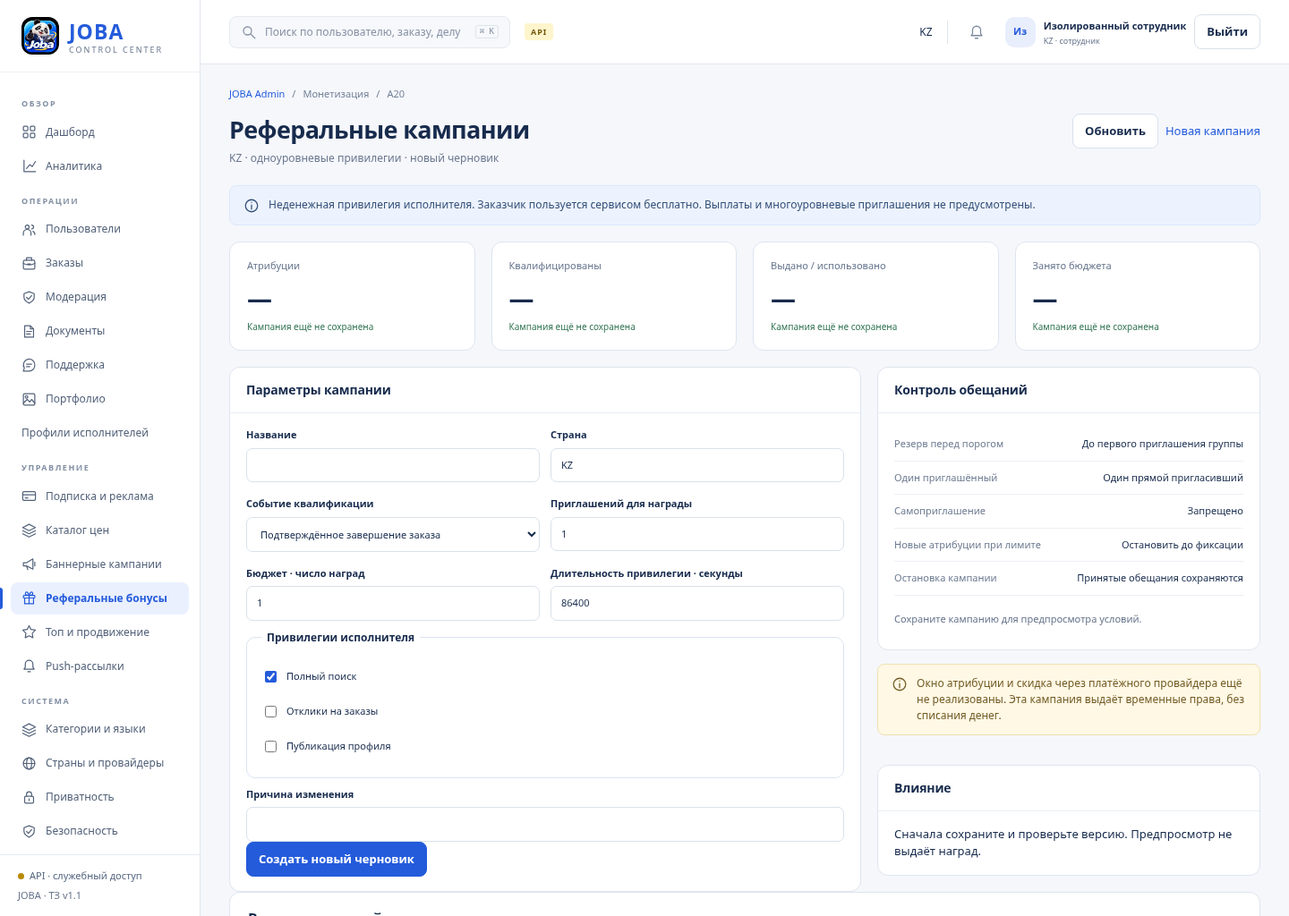
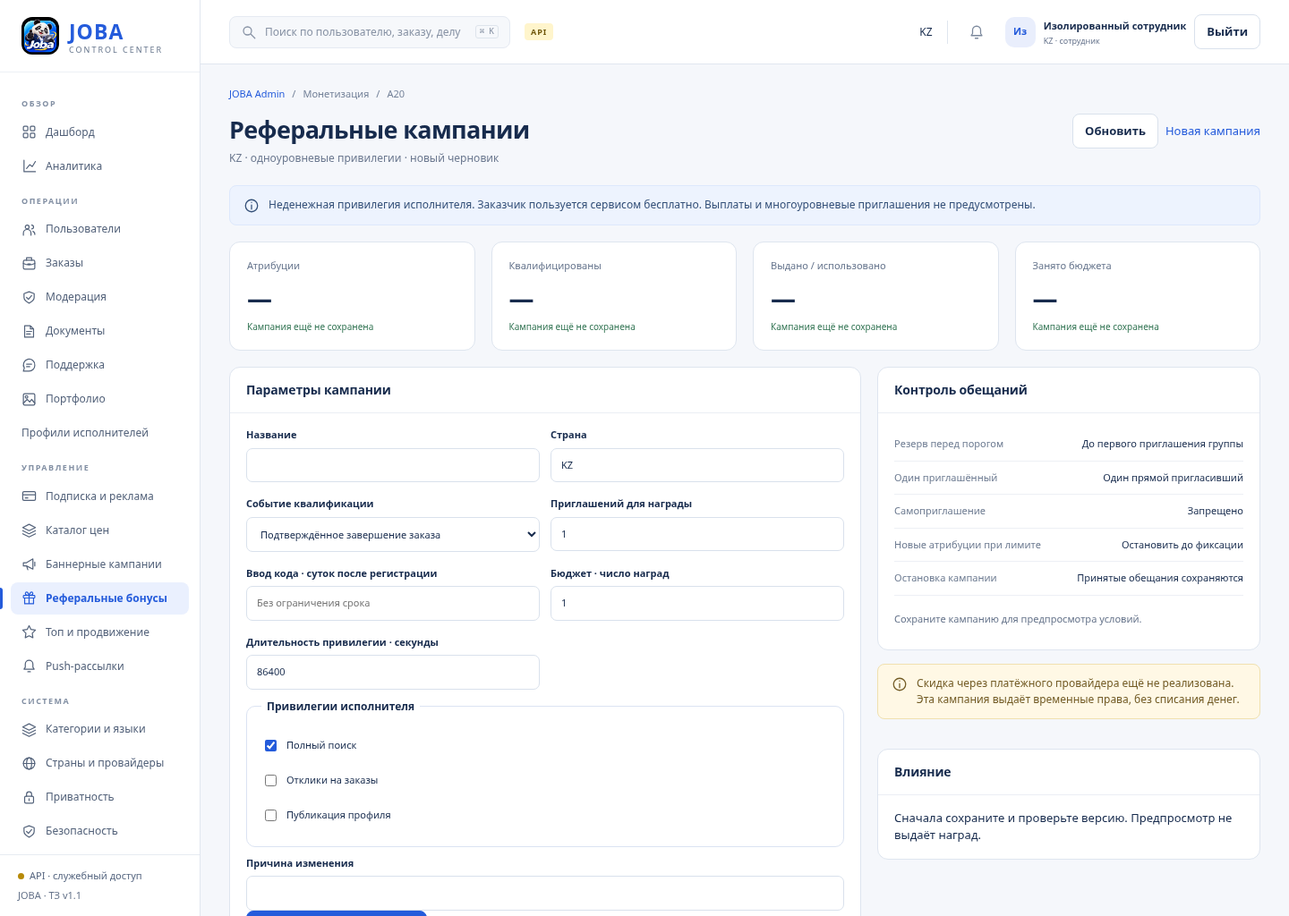
feat: enforce configurable referral attribution window

diff --git a/apps/admin/referral-workspace.js b/apps/admin/referral-workspace.js
@@ -5,11 +5,11 @@ export async function referralWorkspace({key,api,esc,card,note,tablecard,country
  const input=(label,name,value,type='text',attrs='')=>`<div class="formfield"><label for="referral-${name}">${label}</label><input id="referral-${name}" name="${name}" value="${esc(value??'')}" type="${type}" ${attrs}></div>`;
  const row=(label,value)=>`<div class="info-row"><span>${label}</span><b>${esc(value)}</b></div>`;
  const duration=seconds=>new Intl.NumberFormat('ru',{maximumFractionDigits:2}).format(seconds/3600)+' ч';
- if(key==='referral-preview')return {key,id:'A20.preview',title:'Предпросмотр реферальной кампании',subtitle:r?`${r.title} · версия ${r.version} · ${country}`:country+' · выберите сохранённую кампанию',section:'Реферальные кампании',actions:'<button id="refresh-data">Обновить</button>',body:()=>r?`<div class="referral-layout">${note('Предпросмотр сохранённых условий. Просмотр и проверка не принимают приглашения и не выдают награды.','warn')}<div class="grid split">${card('Условия для участника',`<div class="referral-offer"><span class="eyebrow">ПРИГЛАСИТЕ ДРУЗЕЙ В JOBA</span><h2>${esc(p.threshold)} приглашений</h2><p class="referral-benefit">${esc((p.capabilities||[]).map(x=>caps[x]||x).join(' · '))}</p><p class="tiny muted">Временная привилегия на ${esc(duration(p.reward_duration_seconds))}</p><p class="tiny muted referral-conditions">Приглашение засчитывается: ${esc(events[p.qualifying_event]||p.qualifying_event)}. Один прямой пригласивший, без денежных выплат. Доступные награды активируются в течение 30 дней.</p></div>${row('Что не раскрывается','Контакты и чужие покупки')}${row('Модель','Один уровень · без выплат')}${row('Прогресс участника','Здесь не отображается: участник не выбран')}`)}${card('Проверка перед публикацией',`${row('Страна / привилегия',country+' / исполнителю')}${row('Квалифицирующее событие',events[p.qualifying_event]||p.qualifying_event)}${row('Бюджет',p.budget_units+' наград')}${row('Занято / в резерве',m.budget_used+' / '+m.reserved)}${row('Срок награды',duration(p.reward_duration_seconds))}${row('Состояние',states[r.status]||r.status)}${row('Независимая публикация',r.published_by&&r.published_by!==r.owner?'Подтверждена':'Не подтверждена')}<form id="referral-preview-check" class="stack mt"><label for="referral-preview-reason">Основание проверки</label><textarea id="referral-preview-reason" name="reason" required minlength="10" maxlength="1000"></textarea><button class="primary">Проверить сохранённую версию</button><div role="alert"></div><div role="status"></div></form><a class="btn small" href="#referrals?id=${encodeURIComponent(r.id)}">Вернуться к условиям</a>`)}</div></div>`:`${note('Сохраните или выберите кампанию для просмотра её условий.')}<form id="referral-preview-select" class="filters"><label for="referral-preview-id">Кампания</label><select id="referral-preview-id" name="id" required><option value="">Выберите версию</option>${list.items.map(x=>`<option value="${esc(x.id)}">${esc(x.title)} · ${esc(states[x.status]||x.status)} · v${x.version}</option>`).join('')}</select><button ${list.items.length?'':'disabled'}>Показать условия</button></form><a class="btn" href="#referrals?new=1">Создать кампанию</a>${list.meta?.next_cursor?`<a class="btn" href="#referral-preview?cursor=${encodeURIComponent(list.meta.next_cursor)}">Следующая страница</a>`:''}`,bind(){const choose=document.getElementById('referral-preview-select');if(choose)choose.onsubmit=e=>{e.preventDefault();location.hash='referral-preview?id='+encodeURIComponent(new FormData(choose).get('id'));};const check=document.getElementById('referral-preview-check');if(check)check.onsubmit=async e=>{e.preventDefault();const button=check.querySelector('button');button.disabled=true;check.querySelector('[role=alert]').textContent='';check.querySelector('[role=status]').textContent='';try{const result=await api('/admin/referral-campaigns/'+r.id+'/preview','POST',{expected_version:r.version,reason:new FormData(check).get('reason')});check.querySelector('[role=status]').textContent=`Версия ${result.source_version} проверена. Активных аккаунтов в стране: ${result.country_active_accounts}. Награды не выданы.`;}catch(error){check.querySelector('[role=alert]').textContent=error.message;}finally{button.disabled=false;}};}};
- return {key,id:key==='referral-preview'?'A20.preview':'A20',title:'Реферальные кампании',subtitle:country+' · одноуровневые привилегии · '+(r?'Версия '+r.version:'новый черновик'),section:'Монетизация',actions:'<button id="refresh-data">Обновить</button><a class="btn primary" href="#referrals?new=1">Новая кампания</a>',body:()=>`${note('Неденежная привилегия исполнителя. Заказчик пользуется сервисом бесплатно. Выплаты и многоуровневые приглашения не предусмотрены.')}<div class="grid cols4 mt">${[['Атрибуции',m?.attributions],['Квалифицированы',m?.qualified],['Выдано / использовано',m?m.issued+' / '+m.redeemed:undefined],['Занято бюджета',m?m.budget_used+' / '+p.budget_units:undefined]].map(([label,value])=>`<section class="card metric"><div class="metric-label">${esc(label)}</div><div class="metric-num">${esc(value??'—')}</div><div class="metric-trend">${m?'По выбранной кампании':'Кампания ещё не сохранена'}</div></section>`).join('')}</div><div class="grid split mt referral-layout"><form id="referral-editor" class="stack">${card('Параметры кампании',`<div class="formgrid">${input('Название','title',r?.title,'text','required minlength="3" maxlength="120"')}${input('Страна','country',country,'text','readonly')}<div class="formfield"><label for="referral-event">Событие квалификации</label><select id="referral-event" name="qualifying_event">${Object.entries(events).map(([k,v])=>`<option value="${k}" ${p.qualifying_event===k?'selected':''}>${v}</option>`).join('')}</select></div>${input('Приглашений для награды','threshold',p.threshold??1,'number','required min="1" max="100"')}${input('Бюджет · число наград','budget_units',p.budget_units??1,'number','required min="1" max="1000000"')}${input('Длительность привилегии · секунды','reward_duration_seconds',p.reward_duration_seconds??86400,'number','required min="60" max="31622400"')}</div><fieldset><legend>Привилегии исполнителя</legend>${Object.entries(caps).map(([k,v])=>`<label class="check"><input name="capabilities" type="checkbox" value="${k}" ${(p.capabilities||['search_full']).includes(k)?'checked':''}> ${v}</label>`).join('')}</fieldset>${input('Причина изменения','reason','','text','required minlength="10" maxlength="1000"')}<div class="actions"><button class="primary">${own?'Сохранить черновик':'Создать новый черновик'}</button></div><div role="alert"></div>`)}</form><div class="stack">${card('Контроль обещаний',`${row('Резерв перед порогом','До первого приглашения группы')}${row('Один приглашённый','Один прямой пригласивший')}${row('Самоприглашение','Запрещено')}${row('Новые атрибуции при лимите','Остановить до фиксации')}${row('Остановка кампании','Принятые обещания сохраняются')}${r?`<a class="price-primary mt" href="#referral-preview?id=${encodeURIComponent(r.id)}">Предпросмотр условий →</a>`:'<p class="tiny muted mt">Сохраните кампанию для предпросмотра условий.</p>'}`)}${note('Окно атрибуции и скидка через платёжного провайдера ещё не реализованы. Эта кампания выдаёт временные права, без списания денег.','warn')}${r?card('Проверка и публикация',`<form id="referral-command" class="stack"><label for="referral-command-reason">Основание действия</label><textarea id="referral-command-reason" name="reason" required minlength="10" maxlength="1000"></textarea><div class="actions"><button value="validate">Проверить</button><button value="preview">Предпросмотр</button>${r.status==='draft'?'<button class="primary" value="publish">Опубликовать другим сотрудником</button>':r.status==='effective'?'<button value="stop">Остановить кампанию</button>':''}<button value="rollback">Черновик отката</button></div><div role="alert"></div><div role="status"></div></form>`):''}${card('Влияние','<div id="referral-impact">Сначала сохраните и проверьте версию. Предпросмотр не выдаёт наград.</div>')}</div></div>${tablecard('Версии кампаний',['Название','Состояние','Порог / бюджет',''],list.items.map(x=>[esc(x.title),esc(states[x.status]||x.status),esc(x.payload.threshold+' / '+x.payload.budget_units),`<a href="#referrals?id=${encodeURIComponent(x.id)}">Открыть →</a>`]),'',`${list.items.length} записей · ${list.meta?.next_cursor?'Есть следующая страница':'Конец списка'}`)}${list.meta?.next_cursor?`<a class="btn" href="#referrals?cursor=${encodeURIComponent(list.meta.next_cursor)}">Следующая страница</a>`:''}`,
+ if(key==='referral-preview')return {key,id:'A20.preview',title:'Предпросмотр реферальной кампании',subtitle:r?`${r.title} · версия ${r.version} · ${country}`:country+' · выберите сохранённую кампанию',section:'Реферальные кампании',actions:'<button id="refresh-data">Обновить</button>',body:()=>r?`<div class="referral-layout">${note('Предпросмотр сохранённых условий. Просмотр и проверка не принимают приглашения и не выдают награды.','warn')}<div class="grid split">${card('Условия для участника',`<div class="referral-offer"><span class="eyebrow">ПРИГЛАСИТЕ ДРУЗЕЙ В JOBA</span><h2>${esc(p.threshold)} приглашений</h2><p class="referral-benefit">${esc((p.capabilities||[]).map(x=>caps[x]||x).join(' · '))}</p><p class="tiny muted">Временная привилегия на ${esc(duration(p.reward_duration_seconds))}</p><p class="tiny muted referral-conditions">Приглашение засчитывается: ${esc(events[p.qualifying_event]||p.qualifying_event)}. Один прямой пригласивший, без денежных выплат. Доступные награды активируются в течение 30 дней.</p></div>${row('Что не раскрывается','Контакты и чужие покупки')}${row('Модель','Один уровень · без выплат')}${row('Прогресс участника','Здесь не отображается: участник не выбран')}`)}${card('Проверка перед публикацией',`${row('Страна / привилегия',country+' / исполнителю')}${row('Квалифицирующее событие',events[p.qualifying_event]||p.qualifying_event)}${row('Ввод кода после регистрации',p.attribution_window_days?p.attribution_window_days+' суток':'Без ограничения срока')}${row('Бюджет',p.budget_units+' наград')}${row('Занято / в резерве',m.budget_used+' / '+m.reserved)}${row('Срок награды',duration(p.reward_duration_seconds))}${row('Состояние',states[r.status]||r.status)}${row('Независимая публикация',r.published_by&&r.published_by!==r.owner?'Подтверждена':'Не подтверждена')}<form id="referral-preview-check" class="stack mt"><label for="referral-preview-reason">Основание проверки</label><textarea id="referral-preview-reason" name="reason" required minlength="10" maxlength="1000"></textarea><button class="primary">Проверить сохранённую версию</button><div role="alert"></div><div role="status"></div></form><a class="btn small" href="#referrals?id=${encodeURIComponent(r.id)}">Вернуться к условиям</a>`)}</div></div>`:`${note('Сохраните или выберите кампанию для просмотра её условий.')}<form id="referral-preview-select" class="filters"><label for="referral-preview-id">Кампания</label><select id="referral-preview-id" name="id" required><option value="">Выберите версию</option>${list.items.map(x=>`<option value="${esc(x.id)}">${esc(x.title)} · ${esc(states[x.status]||x.status)} · v${x.version}</option>`).join('')}</select><button ${list.items.length?'':'disabled'}>Показать условия</button></form><a class="btn" href="#referrals?new=1">Создать кампанию</a>${list.meta?.next_cursor?`<a class="btn" href="#referral-preview?cursor=${encodeURIComponent(list.meta.next_cursor)}">Следующая страница</a>`:''}`,bind(){const choose=document.getElementById('referral-preview-select');if(choose)choose.onsubmit=e=>{e.preventDefault();location.hash='referral-preview?id='+encodeURIComponent(new FormData(choose).get('id'));};const check=document.getElementById('referral-preview-check');if(check)check.onsubmit=async e=>{e.preventDefault();const button=check.querySelector('button');button.disabled=true;check.querySelector('[role=alert]').textContent='';check.querySelector('[role=status]').textContent='';try{const result=await api('/admin/referral-campaigns/'+r.id+'/preview','POST',{expected_version:r.version,reason:new FormData(check).get('reason')});check.querySelector('[role=status]').textContent=`Версия ${result.source_version} проверена. Активных аккаунтов в стране: ${result.country_active_accounts}. Награды не выданы.`;}catch(error){check.querySelector('[role=alert]').textContent=error.message;}finally{button.disabled=false;}};}};
+ return {key,id:key==='referral-preview'?'A20.preview':'A20',title:'Реферальные кампании',subtitle:country+' · одноуровневые привилегии · '+(r?'Версия '+r.version:'новый черновик'),section:'Монетизация',actions:'<button id="refresh-data">Обновить</button><a class="btn primary" href="#referrals?new=1">Новая кампания</a>',body:()=>`${note('Неденежная привилегия исполнителя. Заказчик пользуется сервисом бесплатно. Выплаты и многоуровневые приглашения не предусмотрены.')}<div class="grid cols4 mt">${[['Атрибуции',m?.attributions],['Квалифицированы',m?.qualified],['Выдано / использовано',m?m.issued+' / '+m.redeemed:undefined],['Занято бюджета',m?m.budget_used+' / '+p.budget_units:undefined]].map(([label,value])=>`<section class="card metric"><div class="metric-label">${esc(label)}</div><div class="metric-num">${esc(value??'—')}</div><div class="metric-trend">${m?'По выбранной кампании':'Кампания ещё не сохранена'}</div></section>`).join('')}</div><div class="grid split mt referral-layout"><form id="referral-editor" class="stack">${card('Параметры кампании',`<div class="formgrid">${input('Название','title',r?.title,'text','required minlength="3" maxlength="120"')}${input('Страна','country',country,'text','readonly')}<div class="formfield"><label for="referral-event">Событие квалификации</label><select id="referral-event" name="qualifying_event">${Object.entries(events).map(([k,v])=>`<option value="${k}" ${p.qualifying_event===k?'selected':''}>${v}</option>`).join('')}</select></div>${input('Приглашений для награды','threshold',p.threshold??1,'number','required min="1" max="100"')}${input('Ввод кода · суток после регистрации','attribution_window_days',p.attribution_window_days??'','number','min="1" max="365" placeholder="Без ограничения срока"')}${input('Бюджет · число наград','budget_units',p.budget_units??1,'number','required min="1" max="1000000"')}${input('Длительность привилегии · секунды','reward_duration_seconds',p.reward_duration_seconds??86400,'number','required min="60" max="31622400"')}</div><fieldset><legend>Привилегии исполнителя</legend>${Object.entries(caps).map(([k,v])=>`<label class="check"><input name="capabilities" type="checkbox" value="${k}" ${(p.capabilities||['search_full']).includes(k)?'checked':''}> ${v}</label>`).join('')}</fieldset>${input('Причина изменения','reason','','text','required minlength="10" maxlength="1000"')}<div class="actions"><button class="primary">${own?'Сохранить черновик':'Создать новый черновик'}</button></div><div role="alert"></div>`)}</form><div class="stack">${card('Контроль обещаний',`${row('Резерв перед порогом','До первого приглашения группы')}${row('Один приглашённый','Один прямой пригласивший')}${row('Самоприглашение','Запрещено')}${row('Новые атрибуции при лимите','Остановить до фиксации')}${row('Остановка кампании','Принятые обещания сохраняются')}${r?`<a class="price-primary mt" href="#referral-preview?id=${encodeURIComponent(r.id)}">Предпросмотр условий →</a>`:'<p class="tiny muted mt">Сохраните кампанию для предпросмотра условий.</p>'}`)}${note('Скидка через платёжного провайдера ещё не реализована. Эта кампания выдаёт временные права, без списания денег.','warn')}${r?card('Проверка и публикация',`<form id="referral-command" class="stack"><label for="referral-command-reason">Основание действия</label><textarea id="referral-command-reason" name="reason" required minlength="10" maxlength="1000"></textarea><div class="actions"><button value="validate">Проверить</button><button value="preview">Предпросмотр</button>${r.status==='draft'?'<button class="primary" value="publish">Опубликовать другим сотрудником</button>':r.status==='effective'?'<button value="stop">Остановить кампанию</button>':''}<button value="rollback">Черновик отката</button></div><div role="alert"></div><div role="status"></div></form>`):''}${card('Влияние','<div id="referral-impact">Сначала сохраните и проверьте версию. Предпросмотр не выдаёт наград.</div>')}</div></div>${tablecard('Версии кампаний',['Название','Состояние','Порог / бюджет',''],list.items.map(x=>[esc(x.title),esc(states[x.status]||x.status),esc(x.payload.threshold+' / '+x.payload.budget_units),`<a href="#referrals?id=${encodeURIComponent(x.id)}">Открыть →</a>`]),'',`${list.items.length} записей · ${list.meta?.next_cursor?'Есть следующая страница':'Конец списка'}`)}${list.meta?.next_cursor?`<a class="btn" href="#referrals?cursor=${encodeURIComponent(list.meta.next_cursor)}">Следующая страница</a>`:''}`,
  bind(){const form=document.getElementById('referral-editor'),commands=document.getElementById('referral-command');let dirty=false,busy=false;
  form.oninput=()=>{dirty=true;if(commands){commands.querySelectorAll('button').forEach(b=>b.disabled=true);commands.querySelector('[role=status]').textContent='Сохраните изменения перед проверкой.';}};
- form.onsubmit=async e=>{e.preventDefault();if(busy)return;const data=new FormData(form),values=Object.fromEntries(data),capabilities=data.getAll('capabilities');if(!capabilities.length){form.querySelector('[role=alert]').textContent='Выберите хотя бы одну привилегию.';return;}const payload={threshold:Number(values.threshold),budget_units:Number(values.budget_units),reward_duration_seconds:Number(values.reward_duration_seconds),qualifying_event:values.qualifying_event,capabilities};const controls=[...form.querySelectorAll('input,select,button')];busy=true;controls.forEach(x=>x.disabled=true);form.querySelector('[role=alert]').textContent='';try{const saved=await api('/admin/referral-campaigns'+(own?'/'+r.id:''),own?'PATCH':'POST',{title:values.title,reason:values.reason,payload,...(own?{expected_version:r.version}:{})});if(selected===saved.id)await onRefresh();else location.hash='referrals?id='+encodeURIComponent(saved.id);}catch(error){form.querySelector('[role=alert]').textContent=error.message;}finally{busy=false;controls.forEach(x=>x.disabled=false);}};
+ form.onsubmit=async e=>{e.preventDefault();if(busy)return;const data=new FormData(form),values=Object.fromEntries(data),capabilities=data.getAll('capabilities');if(!capabilities.length){form.querySelector('[role=alert]').textContent='Выберите хотя бы одну привилегию.';return;}const payload={...(values.attribution_window_days?{attribution_window_days:Number(values.attribution_window_days)}:{}),threshold:Number(values.threshold),budget_units:Number(values.budget_units),reward_duration_seconds:Number(values.reward_duration_seconds),qualifying_event:values.qualifying_event,capabilities};const controls=[...form.querySelectorAll('input,select,button')];busy=true;controls.forEach(x=>x.disabled=true);form.querySelector('[role=alert]').textContent='';try{const saved=await api('/admin/referral-campaigns'+(own?'/'+r.id:''),own?'PATCH':'POST',{title:values.title,reason:values.reason,payload,...(own?{expected_version:r.version}:{})});if(selected===saved.id)await onRefresh();else location.hash='referrals?id='+encodeURIComponent(saved.id);}catch(error){form.querySelector('[role=alert]').textContent=error.message;}finally{busy=false;controls.forEach(x=>x.disabled=false);}};
  if(commands)commands.onsubmit=async e=>{e.preventDefault();if(dirty||busy)return;busy=true;const action=e.submitter.value;commands.querySelectorAll('button').forEach(x=>x.disabled=true);form.querySelectorAll('input,select,button').forEach(x=>x.disabled=true);commands.querySelector('[role=alert]').textContent='';try{const result=await api('/admin/referral-campaigns/'+r.id+'/'+action,'POST',{expected_version:r.version,reason:new FormData(commands).get('reason')});if(['validate','preview'].includes(action)){commands.querySelector('[role=status]').textContent='Сохранённая версия проверена.';document.getElementById('referral-impact').textContent=action==='preview'?`Страна ${result.country}; активных аккаунтов ${result.country_active_accounts}; версия ${result.source_version}. Награды не выданы.`:'Порог, бюджет, событие и привилегии корректны.';}else if(action==='rollback')location.hash='referrals?id='+encodeURIComponent(result.id);else await onRefresh();}catch(error){commands.querySelector('[role=alert]').textContent=error.message;}finally{busy=false;commands.querySelectorAll('button').forEach(x=>x.disabled=dirty);form.querySelectorAll('input,select,button').forEach(x=>x.disabled=false);}};
  }};
 }

diff --git a/services/api/src/referral-policy.ts b/services/api/src/referral-policy.ts
@@ -2,8 +2,9 @@ import {HttpException} from '@nestjs/common';
 export function referralPolicy(p:any){
  const fail=(message:string):never=>{throw new HttpException({error:{code:'VALIDATION_ERROR',message,details:{},retryable:false}},422);};
  if(!p||!Number.isSafeInteger(p.threshold)||p.threshold<1||p.threshold>100||!Number.isSafeInteger(p.budget_units)||p.budget_units<1||p.budget_units>1000000||!Number.isSafeInteger(p.reward_duration_seconds)||p.reward_duration_seconds<60||p.reward_duration_seconds>366*86400)fail('Проверьте порог, бюджет и длительность привилегии');
+ if(p.attribution_window_days!==undefined&&(!Number.isSafeInteger(p.attribution_window_days)||p.attribution_window_days<1||p.attribution_window_days>365))fail('Окно ввода кода должно быть от 1 до 365 суток после регистрации');
  if(!['completed_order','executor_verified'].includes(p.qualifying_event))fail('Укажите подтверждаемое событие');
  if(p.multilevel||p.cash_payout)fail('Допустимы только одноуровневые неденежные привилегии');
  if(!Array.isArray(p.capabilities)||!p.capabilities.length||new Set(p.capabilities).size!==p.capabilities.length||p.capabilities.some((x:any)=>!['search_full','send_offer','publish_profile'].includes(x)))fail('Выберите доступные привилегии исполнителя');
- return {threshold:p.threshold,budget_units:p.budget_units,reward_duration_seconds:p.reward_duration_seconds,qualifying_event:p.qualifying_event,capabilities:p.capabilities,multilevel:false,cash_payout:false};
+ return {...(p.attribution_window_days!==undefined?{attribution_window_days:p.attribution_window_days}:{}),threshold:p.threshold,budget_units:p.budget_units,reward_duration_seconds:p.reward_duration_seconds,qualifying_event:p.qualifying_event,capabilities:p.capabilities,multilevel:false,cash_payout:false};
 }

diff --git a/services/api/src/growth.ts b/services/api/src/growth.ts
@@ -19,6 +19,10 @@ export class Growth {
     const previous=(await this.store.all('referral_attribution',country)).find(x=>x.owner===owner);if(previous)fail('ATTRIBUTION_ALREADY_SET','Пригласивший уже закреплён');
     const referrer=(await this.store.all('referral_code',country)).find(x=>x.code===code);if(!referrer||referrer.owner===owner)fail('REFERRAL_INELIGIBLE','Код недоступен',422);
     const campaign=(await this.store.all('referral_campaign',country)).find(x=>x.status==='effective');if(!campaign)fail('CAMPAIGN_UNAVAILABLE','Активной реферальной кампании нет',422);
+    if(campaign.payload.attribution_window_days!==undefined){
+      const account=await this.store.get(owner),created=Date.parse(account?.created_at??''),days=campaign.payload.attribution_window_days;
+      if(!account||account.kind!=='user'||account.country!==country||!Number.isSafeInteger(days)||days<1||days>365||!Number.isFinite(created)||created>Date.now()||Date.now()>=created+days*86400000)fail('ATTRIBUTION_WINDOW_EXPIRED','Срок ввода кода после регистрации истёк',422);
+    }
     // Reserve one complete reward before accepting the first invitation in its group.
     // Reservations survive campaign stop and never borrow another inviter's budget.
     const reservations=(await this.store.all('referral_reservation',country)).filter(x=>x.campaign_id===campaign.id);

diff --git a/docs/completion-plan.md b/docs/completion-plan.md
@@ -32,7 +32,7 @@
 
 ## 5. Структурированные формы админки
 
-Статус: в работе. Формы правил проверки, хранения документов, каталога цен и категорий реализованы; остальные формы и визуальная приёмка открыты. См. `document-policy-editor-update.md`, `price-editor-update.md`, `category-editor-update.md`. В реферальной механике добавлен резерв бюджета до принятия приглашения; структурированная форма A20 подключена к API, дополнительные правила и визуальная приёмка открыты. См. `referral-reservations-update.md`, `referral-editor-update.md`.
+Статус: в работе. Формы правил проверки, хранения документов, каталога цен и категорий реализованы; остальные формы и визуальная приёмка открыты. См. `document-policy-editor-update.md`, `price-editor-update.md`, `category-editor-update.md`. В реферальной механике добавлен резерв бюджета до принятия приглашения; структурированная форма A20 подключена к API; окно ввода кода после регистрации реализовано, остальные дополнительные правила и визуальная приёмка открыты. См. `referral-reservations-update.md`, `referral-editor-update.md`.
 
 Условие завершения: Для каждой формы поля, ограничения, сохранение, конфликт и права.
 
